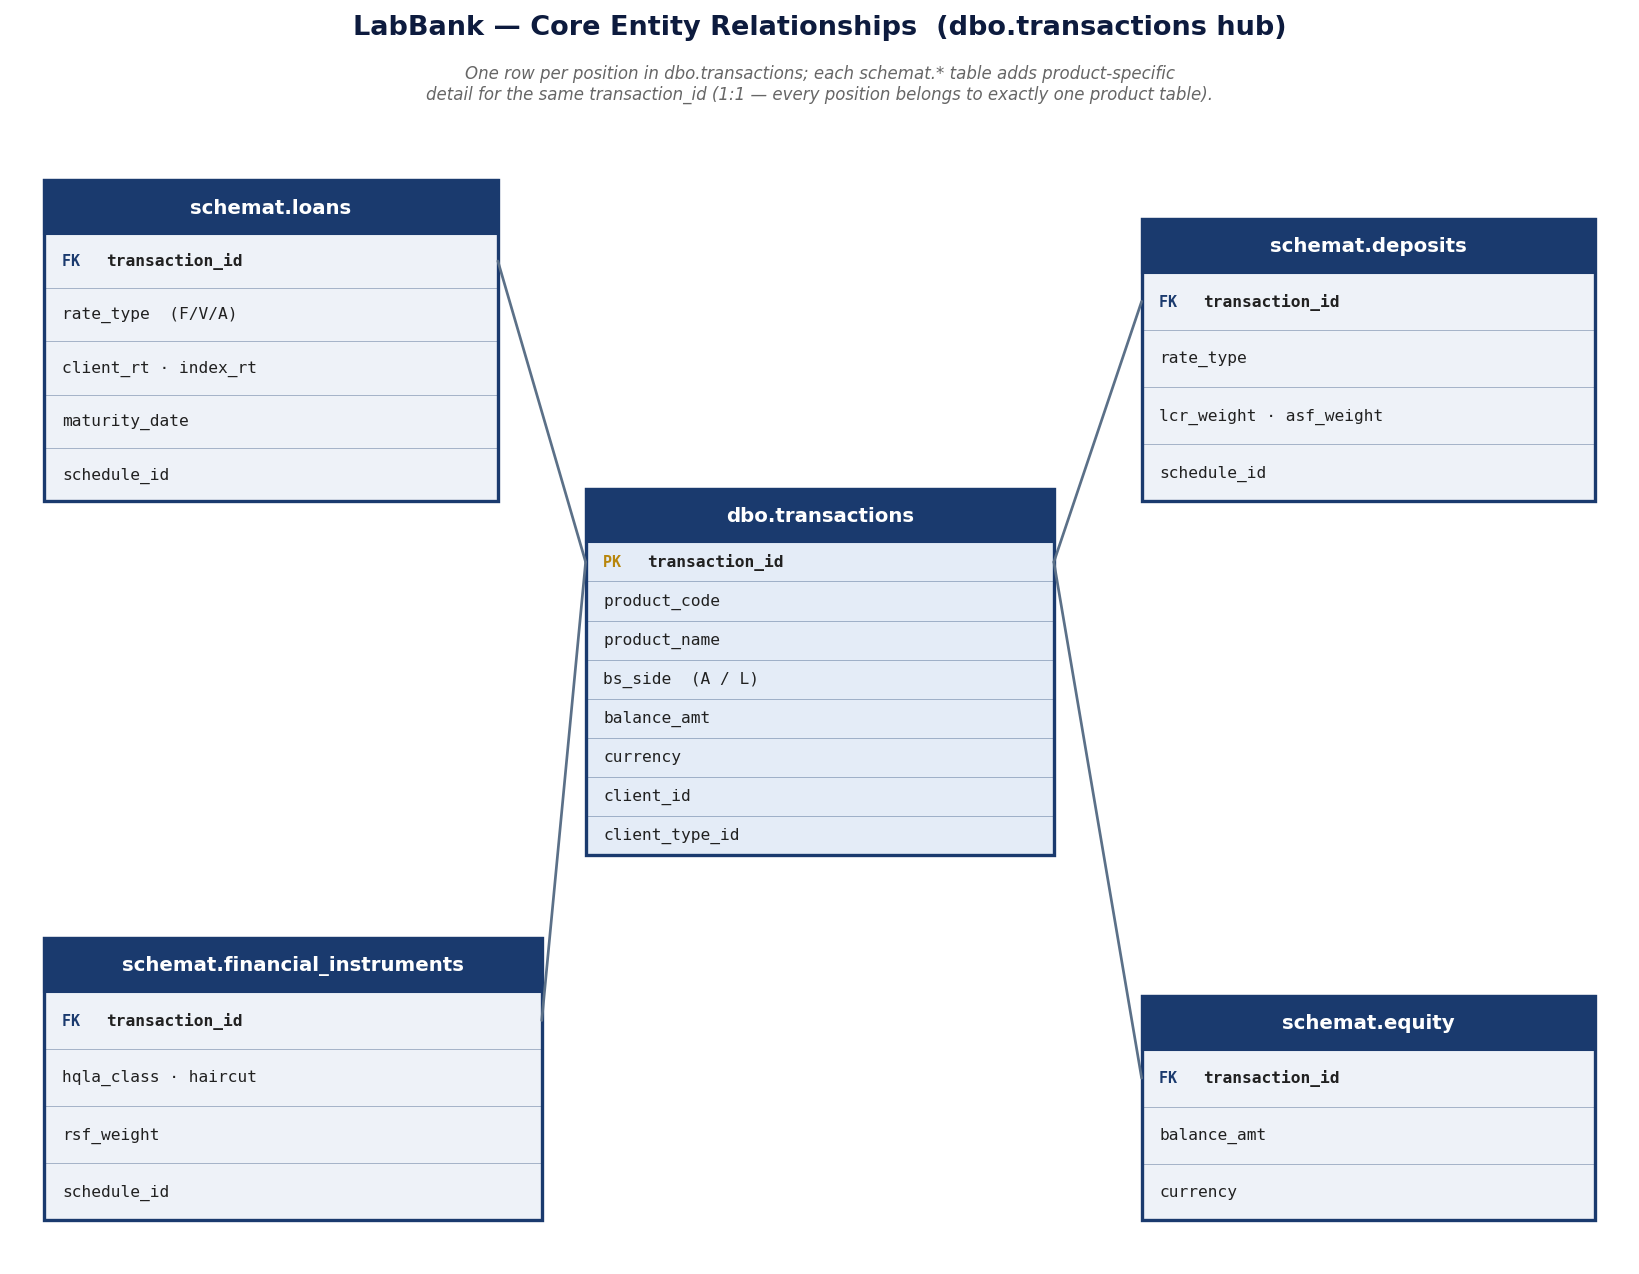
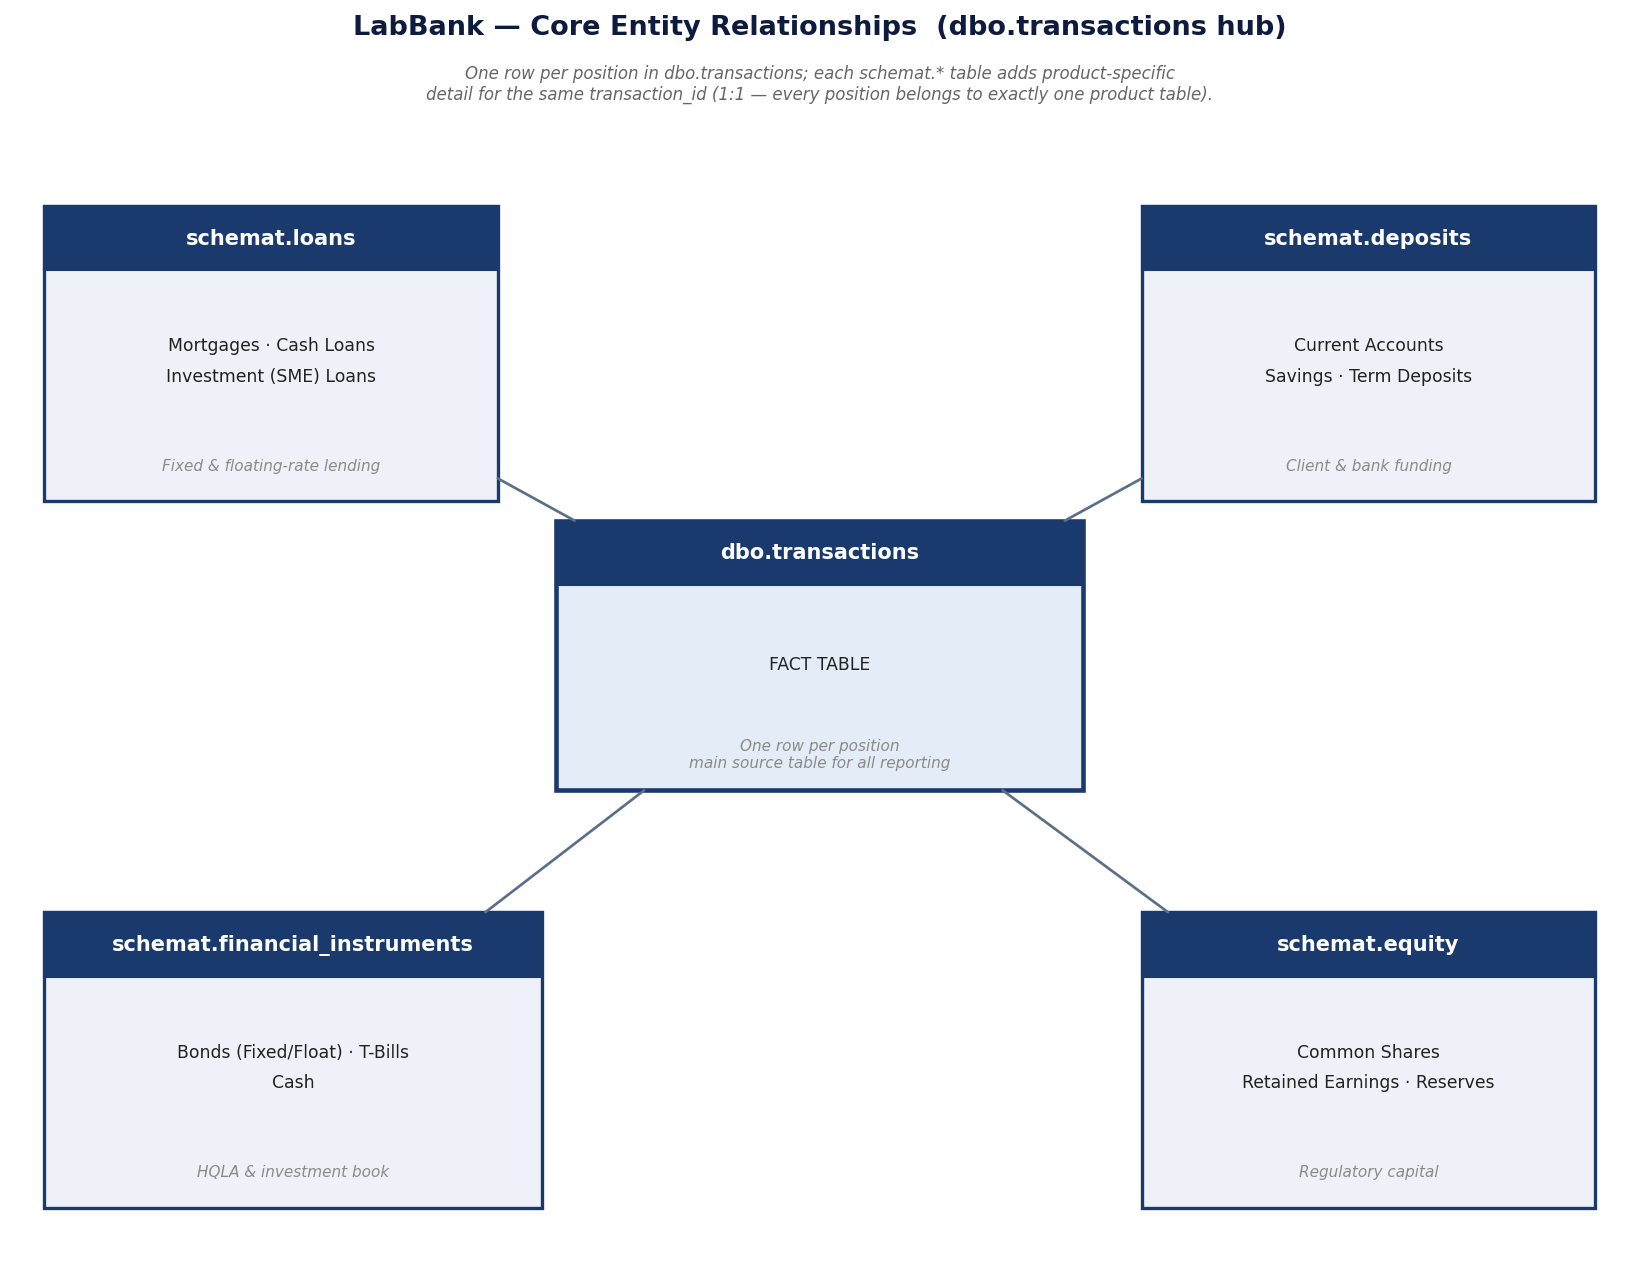
Fix dbo.equity duplicate, rework transaction ERD to show product types
- sql_schema.png: [dbo] box listed "equity" alongside "transactions", but
  sql_setup.py creates Equity with schema="schemat", not "dbo" -- there is
  no dbo.equity table. Removed the stray listing (equity already correctly
  appears once, under [schemat]).
- transaction_erd.png: replaced the SSMS-style column lists in every box
  with what they actually mean to a reader who's never seen the schema --
  each schemat.* box now shows the product types that live there (sourced
  from b_s_gen_objects.py's table_registry: loans = mortgages/cash/
  investment loans, deposits = current/savings/term, financial_instruments
  = bonds/t-bills/cash, equity = shares/retained earnings/reserves), and
  the dbo.transactions hub says FACT TABLE / one row per position instead
  of listing its columns. Reuses sql_schema.png's box style + the shared
  _rect_edge_point() connector helper for visual consistency between the
  two diagrams.
- Updated the surrounding report prose (no longer claims to be "the same
  view as SSMS Database Diagram" -- it deliberately isn't anymore).

diff --git a/visual_rep/make_beamer_assets.py b/visual_rep/make_beamer_assets.py
@@ -226,7 +226,7 @@ def make_sql_schema():
     fig.patch.set_facecolor('white')
 
     schemas = {
-        'dbo':      (0.3, 4.5, 2.8, 1.8, 'transactions\nequity', 'Master balance sheet'),
+        'dbo':      (0.3, 4.5, 2.8, 1.8, 'transactions', 'Master balance sheet'),
         'schemat':  (0.3, 2.0, 2.8, 2.0, 'loans · deposits\nequity · ir_swaps\nsched.ir_swaps',
                      'Product schedules\n& swap book'),
         'mkt':      (0.3, 0.2, 2.8, 1.5, 'curves', 'Discount / fwd curves\nPLN · EUR · USD'),
@@ -283,82 +283,65 @@ def make_sql_schema():
 
 # ── 2b. TRANSACTION-HUB ENTITY DIAGRAM ────────────────────────────────────────
 def make_transaction_erd():
-    """SSMS-style database diagram: dbo.transactions as the hub, with 1:1
-    FK lines (transaction_id) out to each schemat.* product-detail table."""
+    """Conceptual diagram: dbo.transactions as the hub (fact table), with
+    1:1 links out to each schemat.* product-detail table -- each box shows
+    what PRODUCT TYPES live there (from b_s_gen_objects.py's table_registry:
+    every product_name maps to exactly one of loans/deposits/
+    financial_instruments/equity), not raw column names -- this is meant to
+    orient a reader who's never seen the schema, not double as an SSMS
+    screenshot."""
     fig, ax = plt.subplots(figsize=(11, 8.6))
     ax.set_xlim(0, 11); ax.set_ylim(0, 9.6)
     ax.axis('off')
     fig.patch.set_facecolor('white')
 
-    def entity_box(x, y, w, h, header, cols, pk_idx=0, fc=_DIAG_FILL, ec=_DIAG_NAVY):
+    def content_box(x, y, w, h, header, body, desc, fc=_DIAG_FILL, ec=_DIAG_NAVY,
+                    lw=1.6):
         rect = FancyBboxPatch((x, y), w, h, boxstyle='square,pad=0',
-                               facecolor=fc, edgecolor=ec, linewidth=1.6)
+                               facecolor=fc, edgecolor=ec, linewidth=lw)
         ax.add_patch(rect)
-        head_h = 0.42
+        head_h = 0.5
         ax.add_patch(mpatches.Rectangle((x, y + h - head_h), w, head_h,
                                          facecolor=ec, edgecolor=ec))
         ax.text(x + w/2, y + h - head_h/2, header, ha='center', va='center',
-                fontsize=9.5, fontweight='bold', color='white')
-        row_h = (h - head_h) / max(len(cols), 1)
-        rows = {}
-        for i, (label, key) in enumerate(cols):
-            ry = y + h - head_h - row_h * (i + 0.5)
-            rows[label] = (x, x + w, ry)
-            tag = 'PK ' if key == 'PK' else ('FK ' if key == 'FK' else '')
-            weight = 'bold' if key in ('PK', 'FK') else 'normal'
-            key_color = '#B8860B' if key == 'PK' else ec
-            if tag:
-                ax.text(x + 0.12, ry, tag, ha='left', va='center',
-                        fontsize=7.2, fontweight='bold', color=key_color,
-                        fontfamily='monospace')
-            ax.text(x + (0.42 if tag else 0.12), ry, label, ha='left', va='center',
-                    fontsize=7.8, fontweight=weight, color='#212121',
-                    fontfamily='monospace')
-            if i > 0:
-                ax.plot([x, x + w], [y + h - head_h - row_h * i]*2,
-                        color=ec, lw=0.4, alpha=0.4)
-        return rows
+                fontsize=10, fontweight='bold', color='white')
+        ax.text(x + w/2, y + (h - head_h) * 0.58 + 0.05, body,
+                ha='center', va='center', fontsize=8.3, color='#212121',
+                linespacing=1.9)
+        ax.text(x + w/2, y + 0.28, desc, ha='center', va='center',
+                fontsize=7.3, color=_DIAG_DESC, style='italic')
 
-    # Hub: dbo.transactions
-    hub_cols = [
-        ('transaction_id', 'PK'), ('product_code', ''), ('product_name', ''),
-        ('bs_side  (A / L)', ''), ('balance_amt', ''), ('currency', ''),
-        ('client_id', ''), ('client_type_id', ''),
-    ]
-    hub_x, hub_y, hub_w, hub_h = 3.9, 3.15, 3.2, 2.85
-    hub_rows = entity_box(hub_x, hub_y, hub_w, hub_h, 'dbo.transactions',
-                           hub_cols, fc=_DIAG_FILL_END, ec=_DIAG_NAVY)
+    # Hub: dbo.transactions -- role, not a column list. This is the fact
+    # table every regulatory/finance report in this project reads from.
+    hub_x, hub_y, hub_w, hub_h = 3.7, 3.65, 3.6, 2.1
+    hub_box = (hub_x, hub_y, hub_w, hub_h)
+    content_box(hub_x, hub_y, hub_w, hub_h, 'dbo.transactions',
+                'FACT TABLE', 'One row per position\nmain source table for all reporting',
+                fc=_DIAG_FILL_END, ec=_DIAG_NAVY, lw=2.2)
 
-    children = [
-        ('schemat.loans', [('transaction_id', 'FK'), ('rate_type  (F/V/A)', ''),
-                            ('client_rt · index_rt', ''), ('maturity_date', ''),
-                            ('schedule_id', '')], 0.2, 5.9, 3.1, 2.5),
-        ('schemat.deposits', [('transaction_id', 'FK'), ('rate_type', ''),
-                               ('lcr_weight · asf_weight', ''),
-                               ('schedule_id', '')], 7.7, 5.9, 3.1, 2.2),
-        ('schemat.financial_instruments', [('transaction_id', 'FK'),
-                               ('hqla_class · haircut', ''),
-                               ('rsf_weight', ''), ('schedule_id', '')],
-                               0.2, 0.3, 3.4, 2.2),
-        ('schemat.equity', [('transaction_id', 'FK'), ('balance_amt', ''),
-                             ('currency', '')], 7.7, 0.3, 3.1, 1.75),
-    ]
+    children = {
+        'schemat.loans': ('Mortgages · Cash Loans\nInvestment (SME) Loans',
+                           'Fixed & floating-rate lending', 0.2, 5.9, 3.1, 2.3),
+        'schemat.deposits': ('Current Accounts\nSavings · Term Deposits',
+                              'Client & bank funding', 7.7, 5.9, 3.1, 2.3),
+        'schemat.financial_instruments': ('Bonds (Fixed/Float) · T-Bills\nCash',
+                                           'HQLA & investment book', 0.2, 0.4, 3.4, 2.3),
+        'schemat.equity': ('Common Shares\nRetained Earnings · Reserves',
+                            'Regulatory capital', 7.7, 0.4, 3.1, 2.3),
+    }
 
-    for name, cols, cx, cy, cw, ch in children:
-        rows = entity_box(cx, cy, cw, ch, name, cols, fc=_DIAG_FILL, ec=_DIAG_NAVY)
-        # connector: child's transaction_id (FK) row  ↔  hub's transaction_id (PK) row
-        # -- plain line, no arrowhead/cardinality marks: every relationship here
-        # is the same 1:1 FK-to-PK pattern, already stated once in the subtitle
+    hub_center = (hub_x + hub_w / 2, hub_y + hub_h / 2)
+    for name, (body, desc, cx, cy, cw, ch) in children.items():
+        child_box = (cx, cy, cw, ch)
+        content_box(cx, cy, cw, ch, name, body, desc)
+        child_center = (cx + cw / 2, cy + ch / 2)
+        p1 = _rect_edge_point(hub_box, child_center)
+        p2 = _rect_edge_point(child_box, hub_center)
+        # plain connector, no arrowhead/cardinality marks -- every relationship
+        # here is the same 1:1 pattern, already stated once in the subtitle
         # below, so repeating "1 ... 1" at each line was pure clutter.
-        cxr0, cxr1, cyr = rows['transaction_id']
-        hxr0, hxr1, hyr = hub_rows['transaction_id']
-        child_pt = (cxr0, cyr) if cxr0 > hub_x + hub_w else \
-                   (cxr1, cyr) if cxr1 < hub_x else (cxr0 + (cxr1-cxr0)/2, cyr)
-        hub_pt = (hxr1, hyr) if child_pt[0] >= hxr1 else \
-                 (hxr0, hyr) if child_pt[0] <= hxr0 else (hxr0, hyr)
-        ax.plot([hub_pt[0], child_pt[0]], [hub_pt[1], child_pt[1]],
-                color=_DIAG_ARROW, lw=1.3, zorder=1,
-                solid_capstyle='round')
+        ax.plot([p1[0], p2[0]], [p1[1], p2[1]], color=_DIAG_ARROW, lw=1.3,
+                zorder=1, solid_capstyle='round')
 
     ax.set_title('LabBank — Core Entity Relationships  (dbo.transactions hub)',
                  fontsize=13, fontweight='bold', y=0.98, color=_DIAG_NAVY_DARK)

diff --git a/docs/overleaf_report/main.tex b/docs/overleaf_report/main.tex
@@ -405,12 +405,12 @@ answers ``what cash flows come out of that'', and \texttt{irrbb.irrbb\_report} /
 
 \subsection{The core entity relationships}
 The diagram above shows how data \textit{flows} between schemas; the one below shows
-how the master ledger is \textit{structured} --- the same view you would get by
-right-clicking a database in SQL Server Management Studio and choosing ``Database
-Diagram''. \texttt{dbo.transactions} is the hub: every position the bank holds is
-exactly one row there. Each \texttt{schemat.*} table adds product-specific detail for
-that same \texttt{transaction\_id} --- a 1:1 relationship, since a given position is a
-loan, a deposit, a security, or an equity item, never more than one at once.
+how the master ledger is \textit{structured}. \texttt{dbo.transactions} is the hub
+--- the fact table every regulatory/finance report in this project ultimately reads
+from, one row per position. Each \texttt{schemat.*} table adds product-specific
+detail for that same \texttt{transaction\_id} --- a 1:1 relationship, since a given
+position is a loan, a deposit, a security, or an equity item, never more than one
+at once.
 
 \imgfull[0.9\textwidth]{transaction_erd.png}
 
